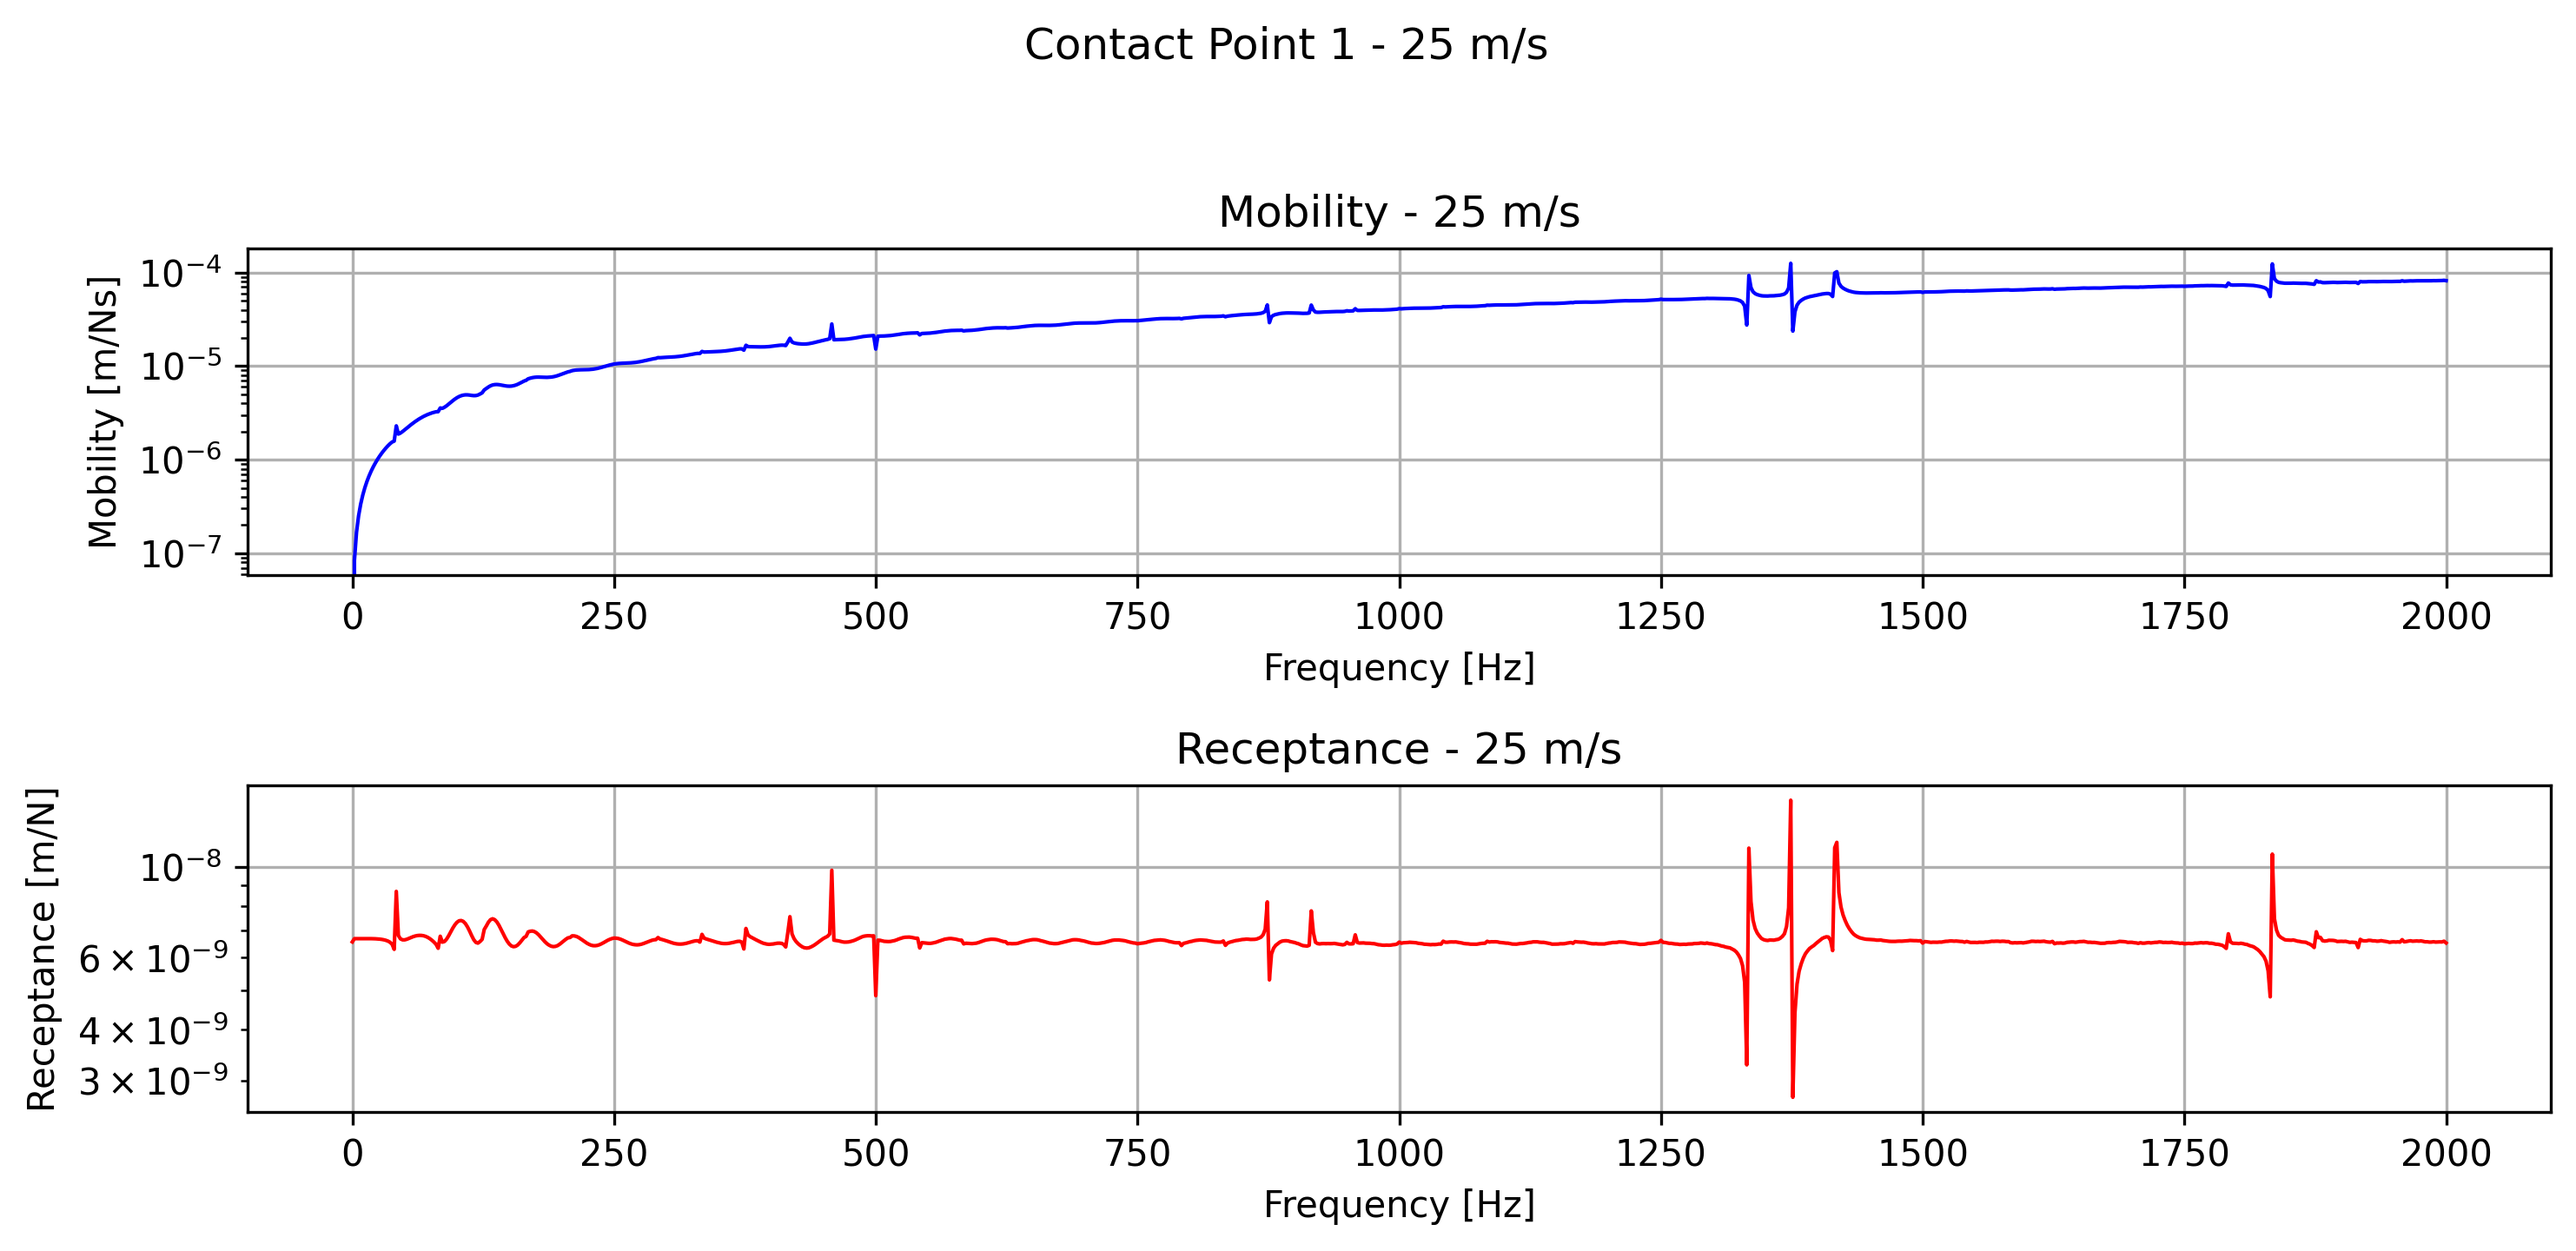
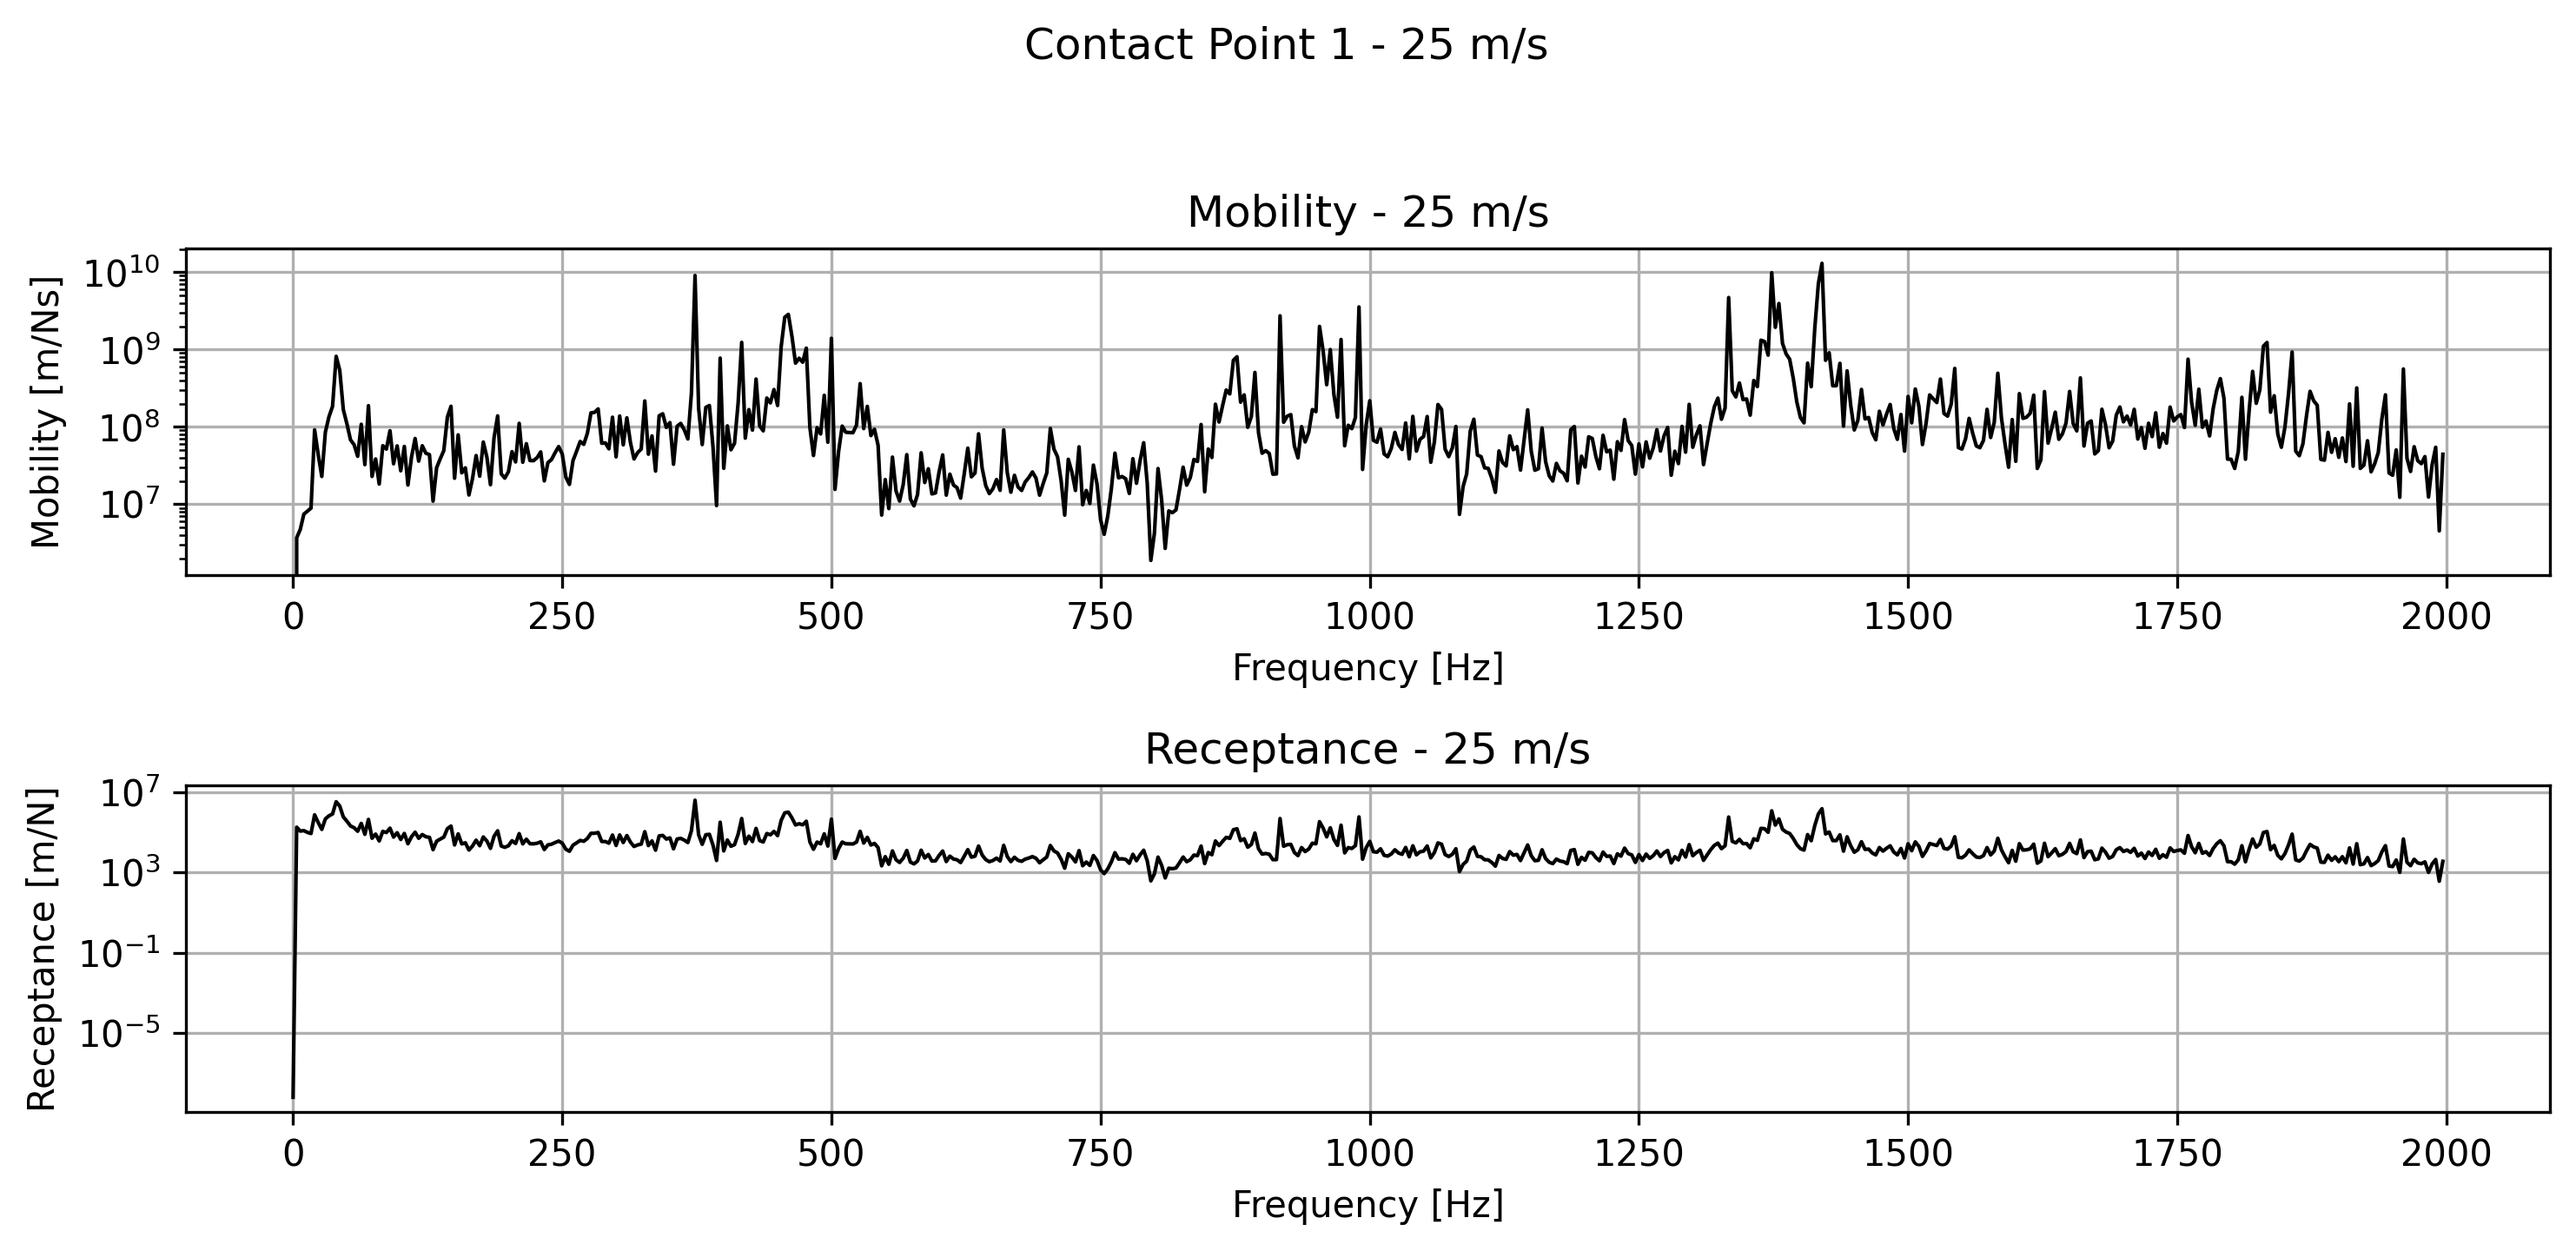
cut ramp from force, time, deflection vectors

diff --git a/Moving_Force.py b/Moving_Force.py
@@ -66,7 +66,8 @@ for file in output_dir.glob('*.png'):
 # =============================================================================
 # 3. VELOCITY SWEEP SIMULATION
 # =============================================================================
-velocities = np.arange(5, 105, 5)  # 5 to 100 m/s in 5 m/s steps
+# velocities = np.arange(5, 105, 5)  # 5 to 100 m/s in 5 m/s steps
+velocities = [25]
 
 for vel in velocities:
     print(f"Computing velocity: {vel} m/s ({vel*3.6:.1f} km/h)")
@@ -95,12 +96,12 @@ for vel in velocities:
     fs = 1 / (t[1] - t[0])
 
     # FFT of force (includes ramp and random components)
-    force_fft = fft(deflection_results.force)
+    force_fft = fft(deflection_results.force[10000:])
 
     # Process each contact point
     for i, contact_defl in enumerate(deflection_results.contact_point_deflection):
-        deflection_fft = fft(contact_defl)
-        freqs = fftfreq(len(t), 1/fs)
+        deflection_fft = fft(contact_defl[10000:])
+        freqs = fftfreq(len(t[10000:]), 1/fs)
         omega = 2 * np.pi * freqs
         
         # Calculate FRFs
@@ -112,7 +113,7 @@ for vel in velocities:
 
         plt.figure(figsize=(10, 5))
         plt.subplot(2, 1, 1)
-        plt.plot(freqs[mask], np.abs(mobility[mask]), 'b-', linewidth=1)
+        plt.plot(freqs[mask], np.abs(mobility[mask]), 'k-', linewidth=1)
         plt.xlabel('Frequency [Hz]')
         plt.ylabel('Mobility [m/Ns]')
         plt.yscale('log')
@@ -120,7 +121,7 @@ for vel in velocities:
         plt.title(f'Mobility - {vel} m/s')
 
         plt.subplot(2, 1, 2)
-        plt.plot(freqs[mask], np.abs(receptance[mask]), 'r-', linewidth=1)
+        plt.plot(freqs[mask], np.abs(receptance[mask]), 'k-', linewidth=1)
         plt.xlabel('Frequency [Hz]')
         plt.ylabel('Receptance [m/N]')
         plt.yscale('log')
@@ -135,14 +136,14 @@ for vel in velocities:
     # Optional: Clear memory
     plt.close('all')
 
-# 4.1 Plot deflection over time
-deflection = np.transpose(deflection_results.deflection)
-deflection = deflection[:, :deflection.shape[1] // 2]  # Take only the rail deflection part, drop sleeper part
-resp.plotMatrix(
-    deflection      = deflection, 
-    track           = track,
-    simulation_time = discretization.req_simt,
-)
+# # 4.1 Plot deflection over time
+# deflection = np.transpose(deflection_results.deflection)
+# deflection = deflection[:, :deflection.shape[1] // 2]  # Take only the rail deflection part, drop sleeper part
+# resp.plotMatrix(
+#     deflection      = deflection, 
+#     track           = track,
+#     simulation_time = discretization.req_simt,
+# )
 
 
 # # 4.2 Calculate frequency response at excitation point
